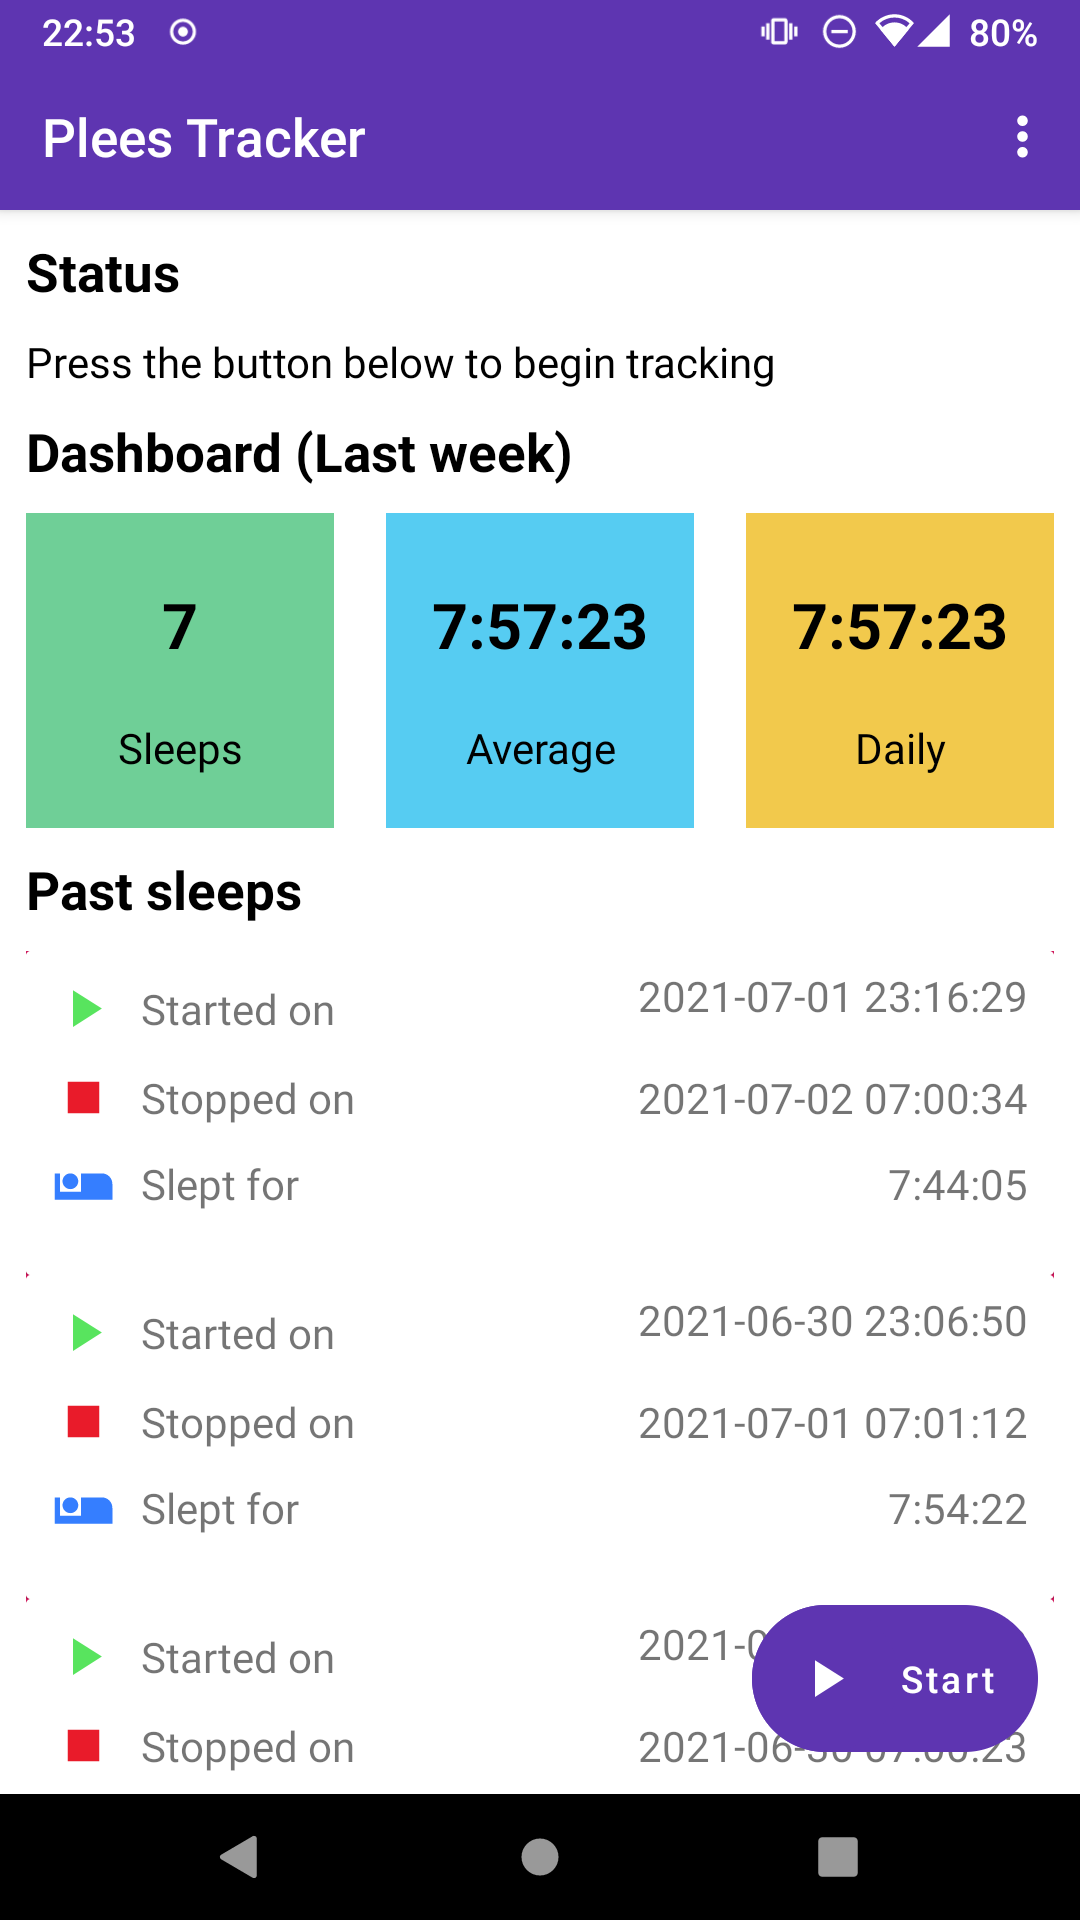
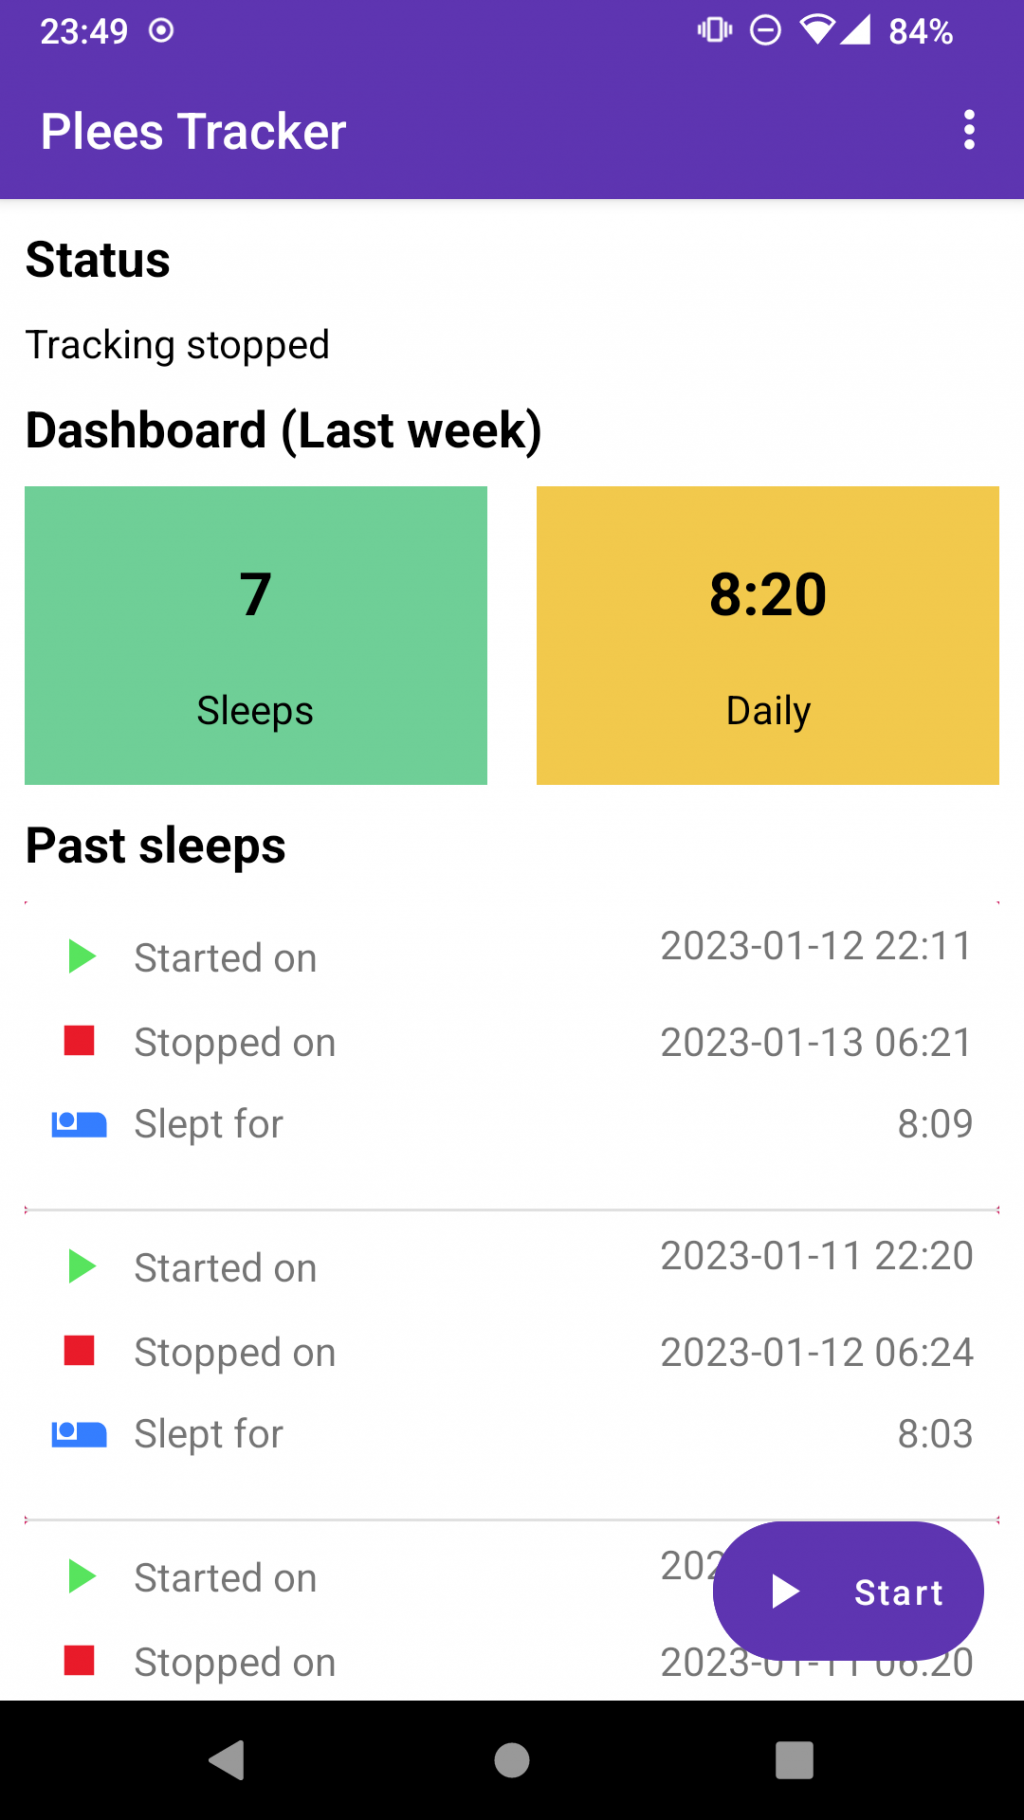
main activity: hide plain average by default and add preferences
The average vs average(sum(daily)) double-stat is a bit confusing, so
just keep the later by default; but add preferences to enable/disable
both.

Do this with live preference listeners, so no restert of the app is
needed.

Fixes <https://github.com/vmiklos/plees-tracker/issues/308>.

diff --git a/app/src/main/java/hu/vmiklos/plees_tracker/MainActivity.kt b/app/src/main/java/hu/vmiklos/plees_tracker/MainActivity.kt
@@ -132,6 +132,36 @@ class MainActivity : AppCompatActivity(), View.OnClickListener {
             this
         ) { setDashboardText(it ?: "0") }
 
+        // Hide plain avg and avg(daily sum) if requested:
+        preferences.liveDataBoolean("show_average_sleep_durations", false).observe(
+            this
+        ) {
+            it?.let {
+                val fragments = supportFragmentManager
+                val stats = fragments.findFragmentById(R.id.dashboard_body)?.view
+                val layout = stats?.findViewById<LinearLayout>(R.id.fragment_stats_average_layout)
+                if (it) {
+                    layout?.visibility = View.VISIBLE
+                } else {
+                    layout?.visibility = View.GONE
+                }
+            }
+        }
+        preferences.liveDataBoolean("show_average_daily_sums", true).observe(
+            this
+        ) {
+            it?.let {
+                val fragments = supportFragmentManager
+                val stats = fragments.findFragmentById(R.id.dashboard_body)?.view
+                val layout = stats?.findViewById<LinearLayout>(R.id.fragment_stats_daily_layout)
+                if (it) {
+                    layout?.visibility = View.VISIBLE
+                } else {
+                    layout?.visibility = View.GONE
+                }
+            }
+        }
+
         val sleepsAdapter = SleepsAdapter(preferences)
         val recyclerView = findViewById<RecyclerView>(R.id.sleeps)
         viewModel.durationSleepsLive.observe(

diff --git a/app/src/main/java/hu/vmiklos/plees_tracker/SharedPreferencesLiveData.kt b/app/src/main/java/hu/vmiklos/plees_tracker/SharedPreferencesLiveData.kt
@@ -38,4 +38,7 @@ private class SharedPreferenceLiveData<T>(
 fun SharedPreferences.liveData(key: String, default: String?): LiveData<String?> =
     SharedPreferenceLiveData(this, key) { getString(key, default) }
 
+fun SharedPreferences.liveDataBoolean(key: String, default: Boolean): LiveData<Boolean?> =
+    SharedPreferenceLiveData(this, key) { getBoolean(key, default) }
+
 /* vim:set shiftwidth=4 softtabstop=4 expandtab: */

diff --git a/guide/src/usage.md b/guide/src/usage.md
@@ -10,9 +10,9 @@ This activity allows:
 
 - Seeing the status of the tracking: not yet started, in progress and finished.
 
-- Dashboard: the number of all tracked sleeps, average of sleep durations and a daily average (in
-  case you sleep multiple times a day or you sometimes skip a whole day) for a customizable
-  duration (see the preferences activity below).
+- Dashboard: the number of all tracked sleeps, average of sleep durations (disabled by default) and
+  a daily average (in case you sleep multiple times a day or you sometimes skip a whole day) for a
+  customizable duration (see the preferences activity below).
 
 - A list of past sleeps for the chosen duration: start/stop time for each sleep, awake time and
   duration counted from these and a rating you can manually specify after the tracking stopped.
@@ -50,12 +50,18 @@ a single tap: i.e. it's the same as opening the app and tapping on the start/sto
 
 ## Preferences activity
 
+### Theme
+
 This allows manually setting the dark mode for plees-tracker. This is useful on Android versions <=
 9, where there is no system-provided dark mode. This works out of the box on newer Android versions.
+
+### Backup
 
 Backup settings allow you to automatically back up your sleeps after a tracking stopped. This is
 useful in case you selected a path which is then implicitly synchronized to some external server,
 e.g. Nextcloud.
+
+### Dashboard
 
 You can also customize the dashboard duration, which limits the sleeps and sleep statistics on the
 dashboard and graphs to the time period selected in the main activity. The default is to only show
@@ -67,6 +73,16 @@ Graphs activity below).
 The other setting influencing the sleep stats is a sleep start delay. Assuming that one presses
 start, followed by 8 hours, then stop, in case a sleep delay of 15 minutes is set, the recorded
 sleep length will be 7:45, not 8:00, by increasing the sleep start timestamp.
+
+The 'Show average of sleeps duration' setting is disabled by default and is useful if you always
+sleep once a day, but sometimes you forget to track your sleep, still you're interested in the
+average of your sleeps.
+
+The 'Show average of daily sums' setting is enabled by default and is useful if you always track
+your sleeps, but you may sleep multiple times a day. This will first count the sum of your sleeps
+within a day, and count the average of those sums.
+
+### Past sleeps
 
 The past sleeps section allow configuring the contents of the individual sleep cards:
 

diff --git a/guide/src/news.md b/guide/src/news.md
@@ -1,5 +1,9 @@
 # Changelog
 
+## main
+
+- Resolves: gh#308 main activity: default to showing average of daily sums only
+
 ## 7.4.5
 
 - Resolves: gh#292 fix lack of toggle from the notification drawer when app is already foreground
